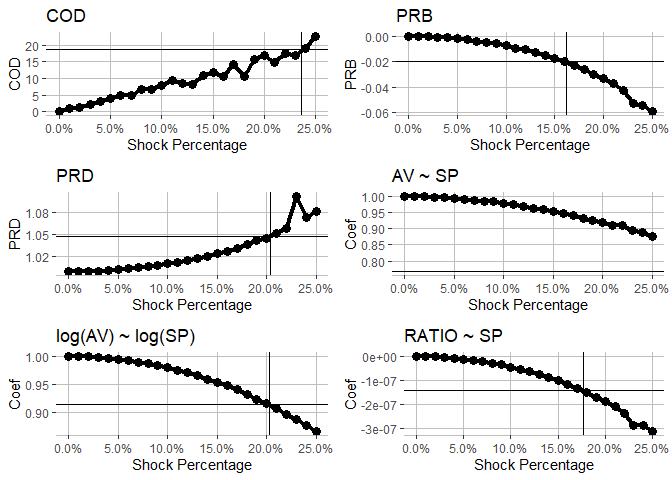
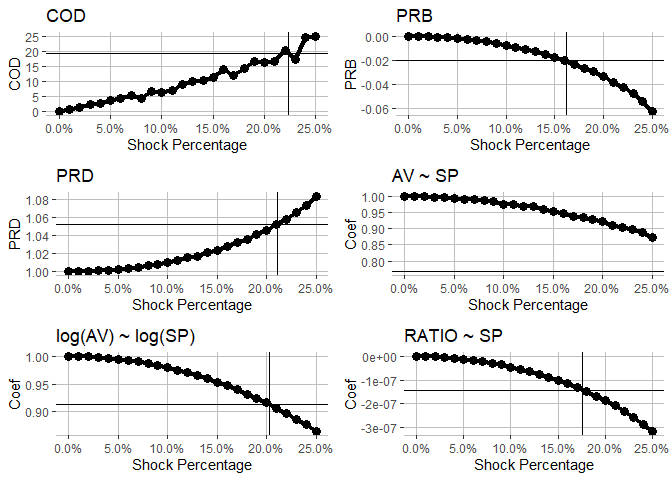
update readme

diff --git a/README.md b/README.md
@@ -44,6 +44,7 @@ ratios <-
 cmfproperty::make_report(ratios, 
                          jurisdiction_name = "Cook County, Illinois"
                          )
+#to see the evaluated output---look at Report Evaluation Output at the end of this readme.
 ```
 
 Let’s break down each of the steps above. First, what kind of data do
@@ -164,11 +165,11 @@ ratios <-
 stats <- cmfproperty::calc_iaao_stats(ratios)
 head(stats)
 #>       N     COD COD_SE    PRD PRD_SE     PRB PRB_SE  q1_ratio median_ratio
-#> 1 51879 19.0847 6.6618 1.0775 0.0066 -0.0514 0.0012 0.7758364    0.9093448
-#> 2 62852 19.6790 6.7343 1.0838 0.0056 -0.0462 0.0011 0.7705720    0.9001375
-#> 3 65961 20.8489 5.6169 1.0625 0.0093 -0.0269 0.0011 0.7428108    0.8732099
-#> 4 65298 18.9213 5.9109 1.0214 0.0021  0.0133 0.0010 0.7470336    0.8856039
-#> 5 62041 17.3147 4.8929 1.0226 0.0034  0.0098 0.0010 0.7681042    0.9035000
+#> 1 51879 19.1173 5.9888 1.0801 0.0039 -0.0514 0.0012 0.7758364    0.9093448
+#> 2 62852 20.7519 6.3019 1.0656 0.0033 -0.0462 0.0011 0.7705720    0.9001375
+#> 3 65961 19.8789 6.1441 1.0513 0.0040 -0.0269 0.0011 0.7428108    0.8732099
+#> 4 65298 19.2052 6.0299 1.0095 0.0067  0.0133 0.0010 0.7470336    0.8856039
+#> 5 62041 17.1030 4.8863 1.0145 0.0053  0.0098 0.0010 0.7681042    0.9035000
 #>   q3_ratio q1_sale median_sale q3_sale q1_assessed_value median_assessed_value
 #> 1 1.057180  148000      230000  375000          136670.0                213430
 #> 2 1.060422  148000      229900  365000          133940.0                209150
@@ -193,19 +194,19 @@ iaao_rslt <- iaao_graphs(stats, ratios, min_reporting_yr = 2015, max_reporting_y
 iaao_rslt[[2]]
 ```
 
-![](man/figures/README-cod%20graph-1.png)<!-- -->
+![](man/figures/README-codgraph-1.png)<!-- -->
 
 ``` r
 iaao_rslt[[4]]
 ```
 
-![](man/figures/README-prd%20graph-1.png)<!-- -->
+![](man/figures/README-prdgraph-1.png)<!-- -->
 
 ``` r
 iaao_rslt[[6]]
 ```
 
-![](man/figures/README-prb%20graph-1.png)<!-- -->
+![](man/figures/README-prbgraph-1.png)<!-- -->
 
 ## Advanced Regressivity Statistics
 
@@ -271,4 +272,132 @@ m_rslts <- monte_carlo_graphs(ratios)
 gridExtra::grid.arrange(m_rslts[[1]], m_rslts[[2]], m_rslts[[3]], m_rslts[[4]], m_rslts[[5]], m_rslts[[6]], nrow = 3)
 ```
 
-![](man/figures/README-monte%20carlo-1.png)<!-- -->
+![](man/figures/README-montecarlo-1.png)<!-- -->
+
+## Report Evaluation Output
+
+``` r
+df <- cmfproperty::example_data
+
+ratios <-
+  cmfproperty::reformat_data(
+    df,
+    sale_col = "SALE_PRICE",
+    assessment_col = "ASSESSED_VALUE",
+    sale_year_col = "SALE_YEAR",
+  )
+#> [1] "Filtered out non-arm's length transactions"
+#> [1] "Inflation adjusted to 2019"
+
+cmfproperty::make_report(ratios, 
+                         jurisdiction_name = "Cook County, Illinois",
+                         output_dir = "C:/Users/erhla/Desktop/")
+#> 
+#> 
+#> processing file: report.Rmd
+#>   |                                                                              |                                                                      |   0%  |                                                                              |..                                                                    |   3%
+#>    inline R code fragments
+#> 
+#>   |                                                                              |.....                                                                 |   6%
+#> label: options (with options) 
+#> List of 2
+#>  $ echo     : logi FALSE
+#>  $ out.width: chr "175px"
+#> 
+#>   |                                                                              |.......                                                               |  10%
+#>   ordinary text without R code
+#> 
+#>   |                                                                              |.........                                                             |  13%
+#> label: setup (with options) 
+#> List of 1
+#>  $ include: logi FALSE
+#> Joining, by = "TAX_YEAR"
+#>   |                                                                              |...........                                                           |  16%
+#>    inline R code fragments
+#> 
+#>   |                                                                              |..............                                                        |  19%
+#> label: mainbinnedscatter
+#>   |                                                                              |................                                                      |  23%
+#>    inline R code fragments
+#> 
+#>   |                                                                              |..................                                                    |  26%
+#> label: over under bar
+#>   |                                                                              |....................                                                  |  29%
+#>   ordinary text without R code
+#> 
+#>   |                                                                              |.......................                                               |  32%
+#> label: iaao graphs
+#>   |                                                                              |.........................                                             |  35%
+#>    inline R code fragments
+#> 
+#>   |                                                                              |...........................                                           |  39%
+#> label: cod graph
+#>   |                                                                              |.............................                                         |  42%
+#>    inline R code fragments
+#> 
+#>   |                                                                              |................................                                      |  45%
+#> label: prd graph
+#>   |                                                                              |..................................                                    |  48%
+#>    inline R code fragments
+#> 
+#>   |                                                                              |....................................                                  |  52%
+#> label: prb graph
+#>   |                                                                              |......................................                                |  55%
+#>    inline R code fragments
+#> 
+#>   |                                                                              |.........................................                             |  58%
+#> label: standardstable (with options) 
+#> List of 1
+#>  $ results: chr "asis"
+#> 
+#>   |                                                                              |...........................................                           |  61%
+#>   ordinary text without R code
+#> 
+#>   |                                                                              |.............................................                         |  65%
+#> label: results_tbl_values (with options) 
+#> List of 1
+#>  $ results: chr "asis"
+#> 
+#>   |                                                                              |...............................................                       |  68%
+#>   ordinary text without R code
+#> 
+#>   |                                                                              |..................................................                    |  71%
+#> label: all_asr_plot (with options) 
+#> List of 1
+#>  $ fig.height: num 7
+#>   |                                                                              |....................................................                  |  74%
+#>   ordinary text without R code
+#> 
+#>   |                                                                              |......................................................                |  77%
+#> label: sale_ratio_decile_tbl (with options) 
+#> List of 1
+#>  $ results: chr "asis"
+#> 
+#>   |                                                                              |........................................................              |  81%
+#>   ordinary text without R code
+#> 
+#>   |                                                                              |...........................................................           |  84%
+#> label: monte carlo
+#>   |                                                                              |.............................................................         |  87%
+#>   ordinary text without R code
+#> 
+#>   |                                                                              |...............................................................       |  90%
+#> label: monte carlo graphs (with options) 
+#> List of 1
+#>  $ fig.height: num 5
+#>   |                                                                              |.................................................................     |  94%
+#>   ordinary text without R code
+#> 
+#>   |                                                                              |....................................................................  |  97%
+#> label: vertical equity methods (with options) 
+#> List of 1
+#>  $ results: chr "asis"
+#> 
+#>   |                                                                              |......................................................................| 100%
+#>   ordinary text without R code
+#> output file: report.knit.md
+#> "C:/Program Files/RStudio/bin/pandoc/pandoc" +RTS -K512m -RTS report.utf8.md --to html4 --from markdown+autolink_bare_uris+tex_math_single_backslash+smart --output pandoc683c53d911fc.html --email-obfuscation none --self-contained --standalone --section-divs --table-of-contents --toc-depth 2 --variable toc_float=1 --variable toc_selectors=h1,h2 --variable toc_collapsed=1 --variable toc_smooth_scroll=1 --variable toc_print=1 --template "C:\Users\erhla\Documents\R\win-library\3.6\rmarkdown\rmd\h\default.html" --no-highlight --variable highlightjs=1 --number-sections --variable "theme:sandstone" --include-in-header "C:\Users\erhla\AppData\Local\Temp\RtmpWaNUoy\rmarkdown-str683c18c17c02.html" --mathjax --variable "mathjax-url:https://mathjax.rstudio.com/latest/MathJax.js?config=TeX-AMS-MML_HTMLorMML" --lua-filter "C:/Users/erhla/Documents/R/win-library/3.6/rmarkdown/rmd/lua/pagebreak.lua" --lua-filter "C:/Users/erhla/Documents/R/win-library/3.6/rmarkdown/rmd/lua/latex-div.lua" --filter "C:/Program Files/RStudio/bin/pandoc/pandoc-citeproc.exe"
+#> 
+#> Output created: C:/Users/erhla/Desktop//Cook County, Illinois.html
+#> [1] "Report created at C:/Users/erhla/Desktop//Cook County, Illinois.html"
+```
